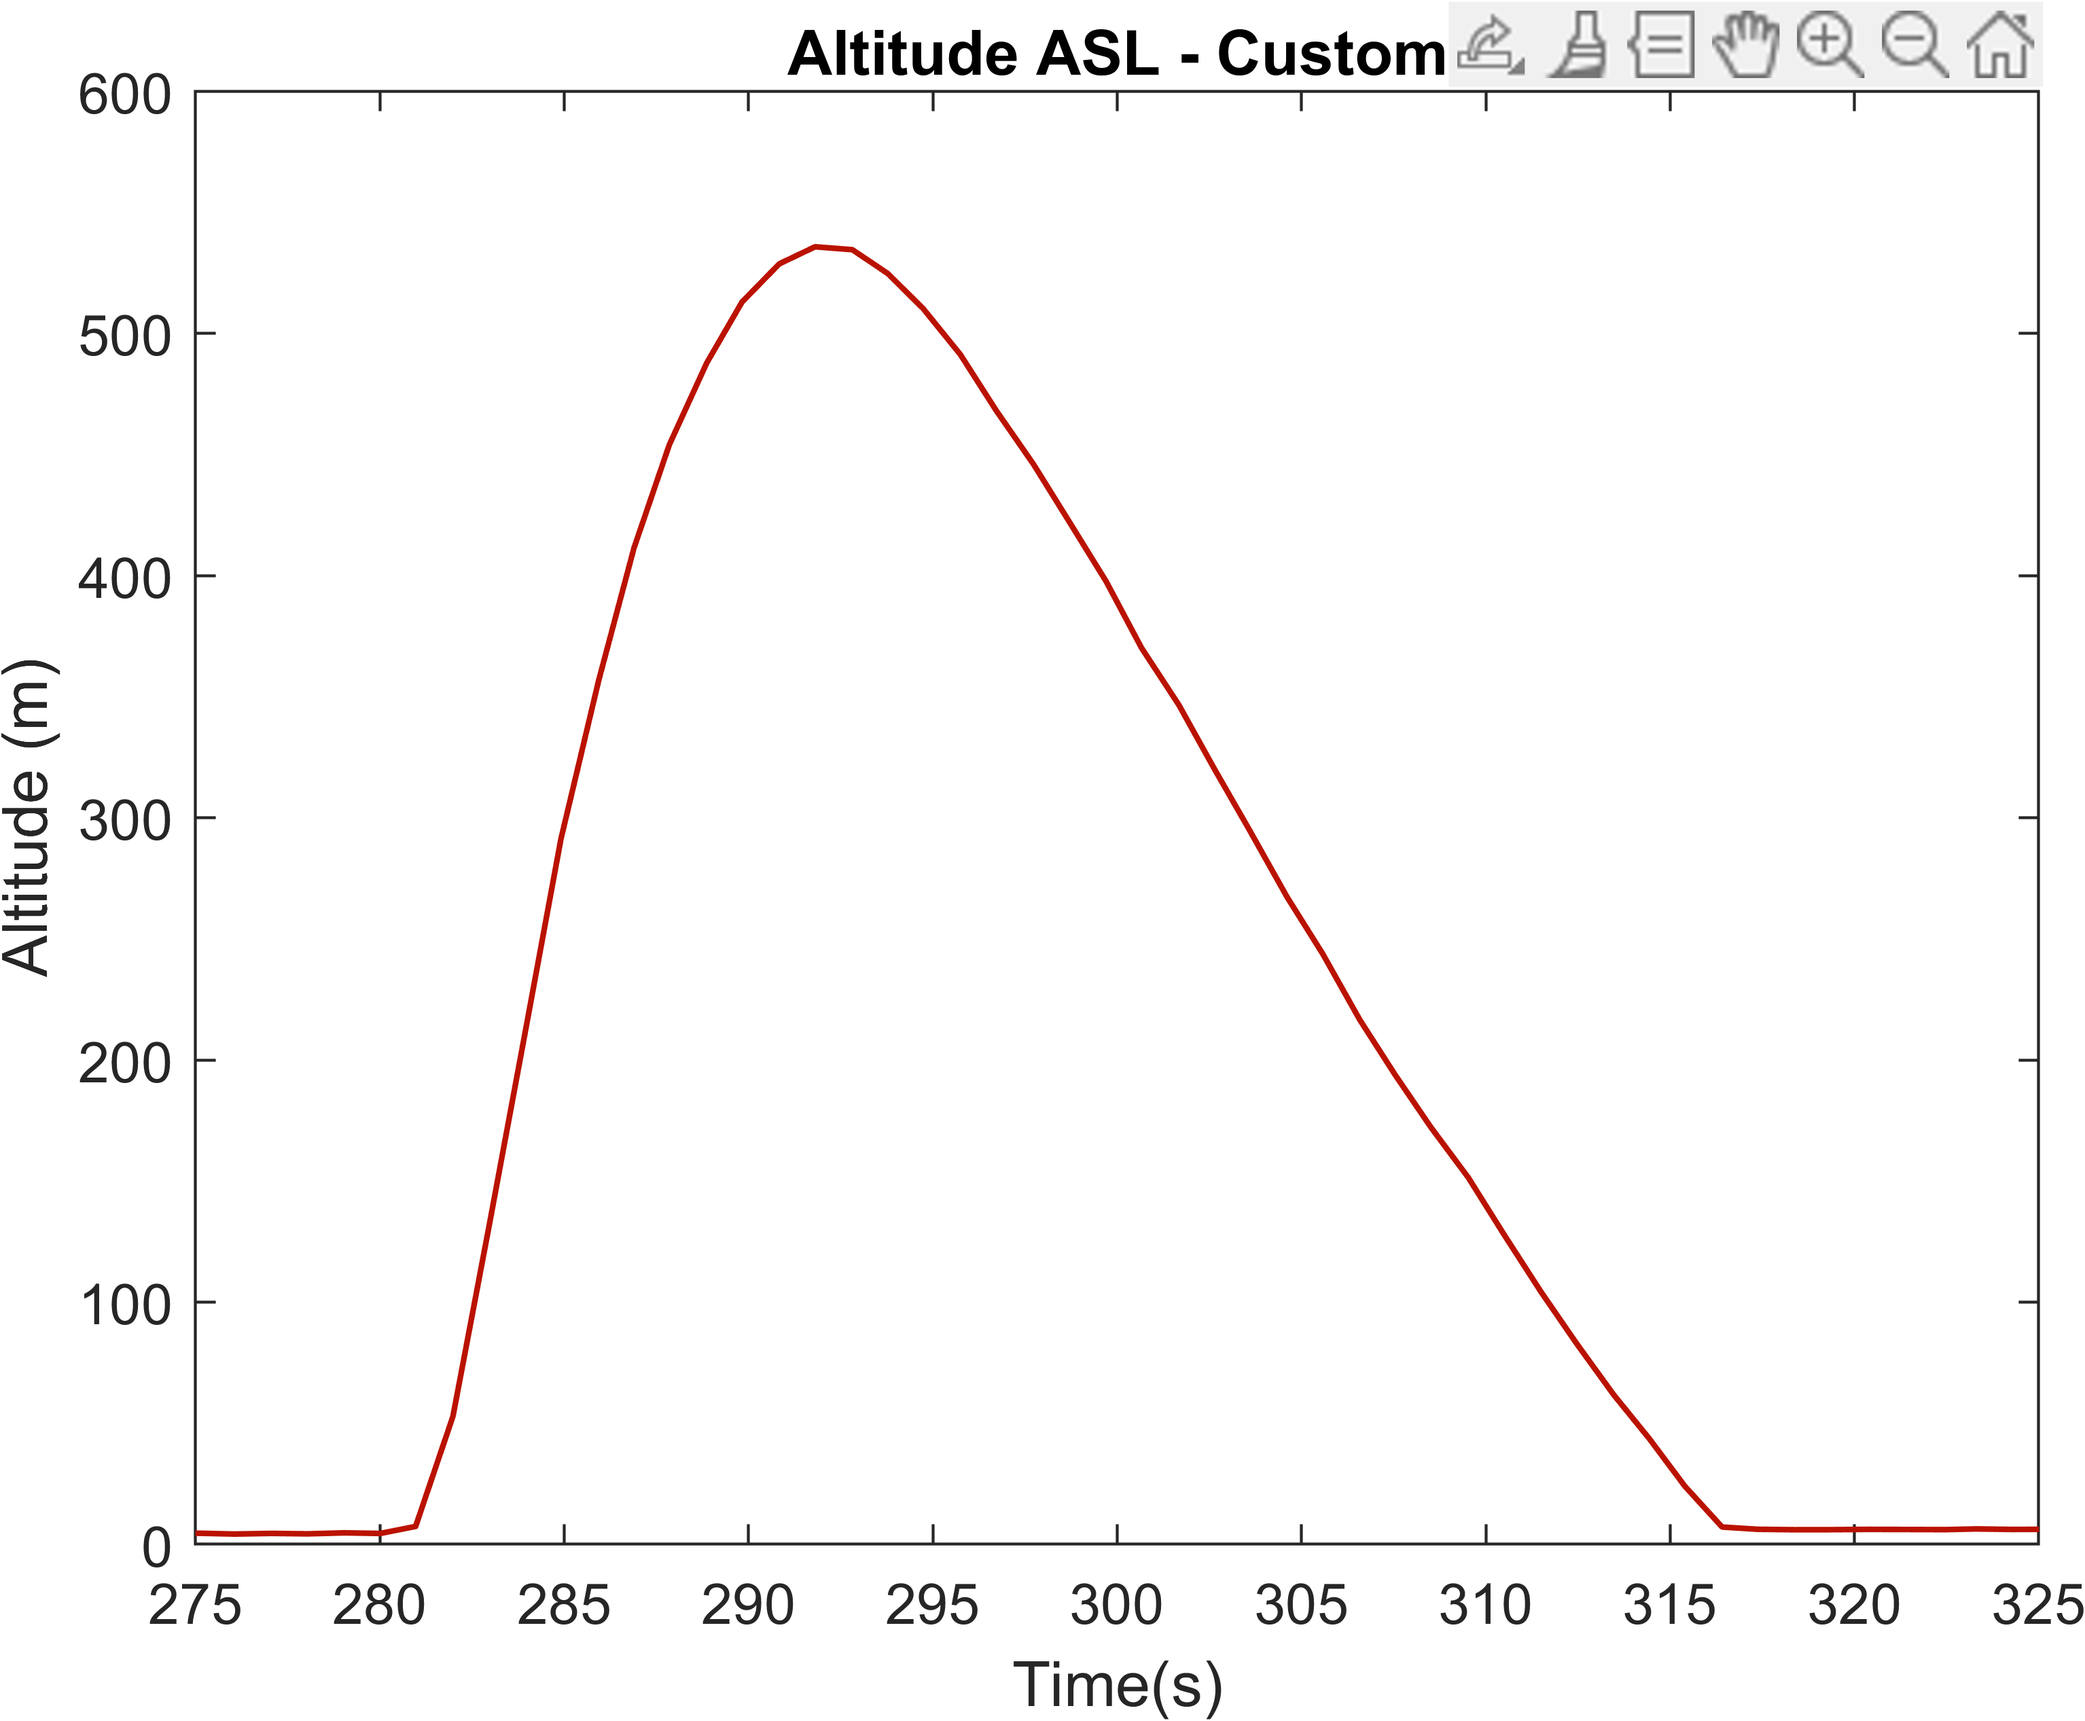
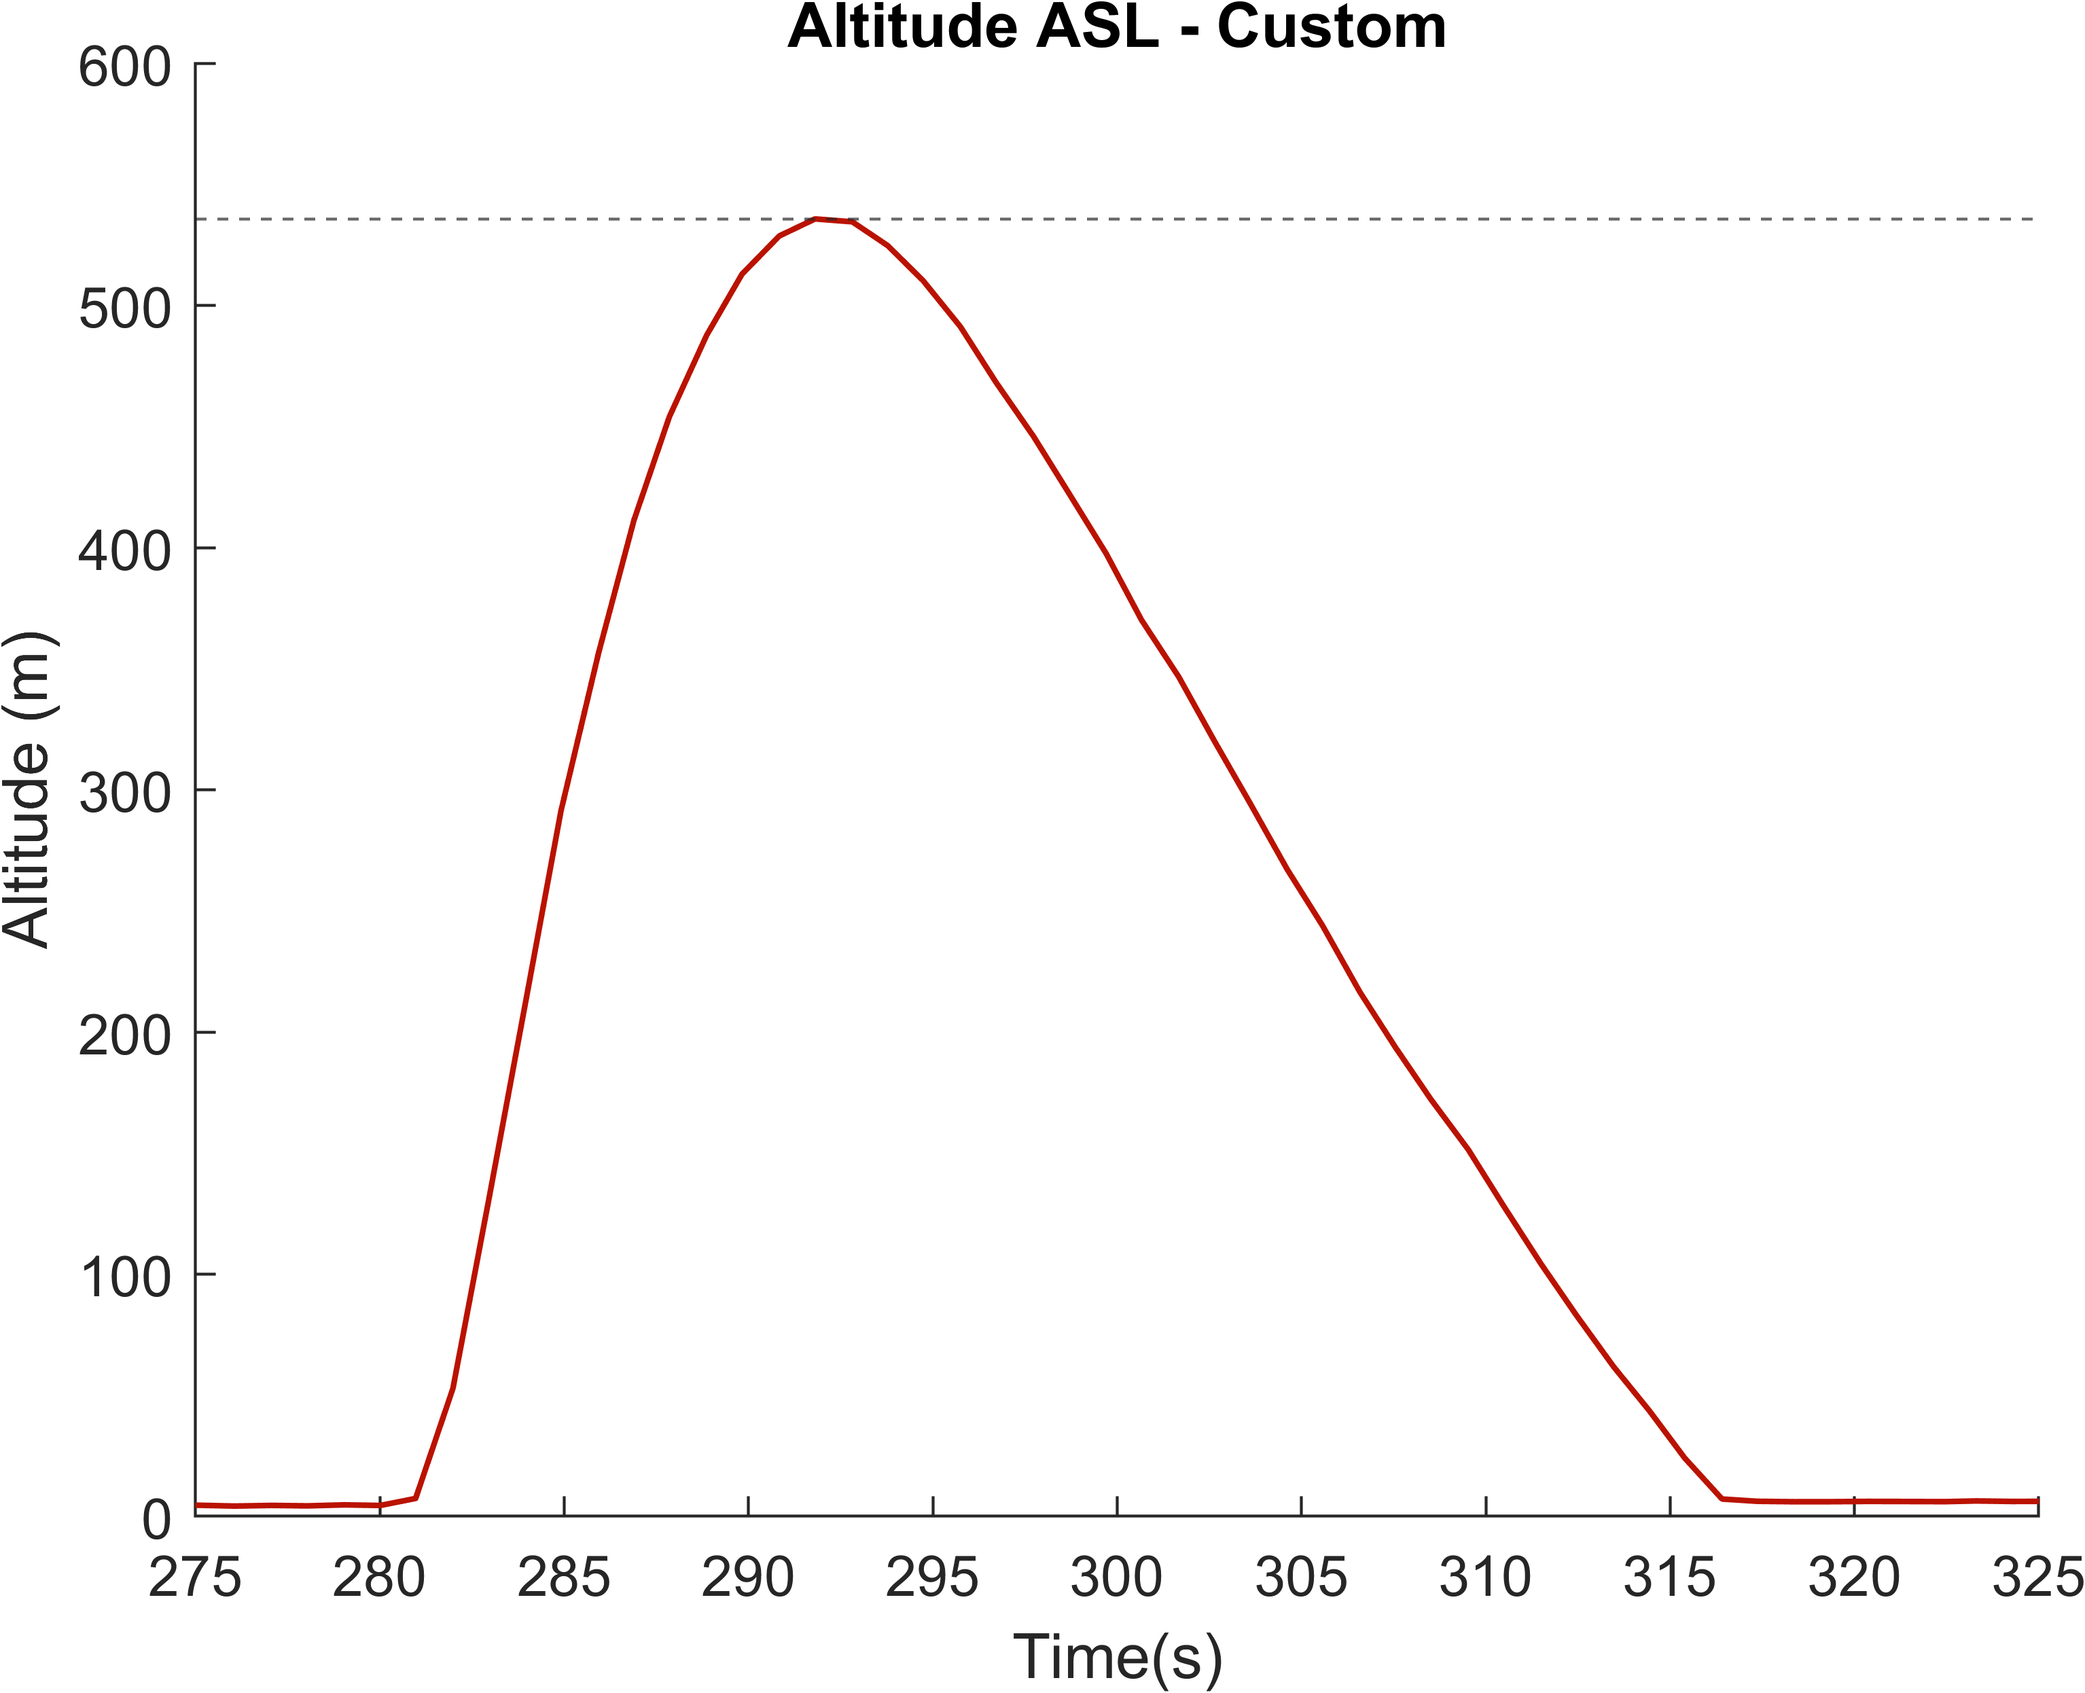
Added a new combined script

diff --git a/astra.m b/astra.m
@@ -34,9 +34,11 @@ t = t/1000;
 % shift t values to recording start
 t = t - min(t);
 
-new_x = -acc_z;
-new_y = acc_y;
-new_z = acc_x;
+period = 5;
+
+new_x = movmean(-acc_z,period);
+new_y = movmean(acc_y,period);
+new_z = movmean(acc_x,period);
 
 figure
 hold on
@@ -112,7 +114,10 @@ if inp == true
     end
     
     figure
+    hold on
     plot(t_filtered, height, 'LineWidth', lw, 'Color', col2)
+    yline(max(height),'--')
+    hold off
     title('Altitude ASL - Custom')
     xlabel('Time(s)')
     ylabel('Altitude (m)')
@@ -169,8 +174,9 @@ temp = pnut(:, 4);
 altitude(t==12.35) = 531;
 
 figure
-plot(t, altitude, 'LineWidth', lw, 'Color', col1)
 hold on
+plot(t, altitude, 'LineWidth', lw, 'Color', col1)
+yline(max(altitude), '--')
 % plot(time+0.4,OR_alt, '-.', 'LineWidth', lw, 'Color', col2)
 hold off
 title('Altitude AGL - Pnut')
@@ -216,7 +222,7 @@ xlabel('Time(s)')
 ylabel('Temperature (C)')
 box on
 exportgraphics(gcf, sprintf('%s_temperature_pnut.png', launch), 'Resolution', 600);
-
+%%
 inp = input('Run ASTRA MkII PNut comparison?');
 
 if inp == true
@@ -238,7 +244,7 @@ if inp == true
     figure
     hold on
     plot(t, vel, 'LineWidth', lw, 'Color', col1)
-    plot(t_filtered-280.3, custom_vel, 'LineWidth', lw, 'Color', col2)
+    plot(t_filtered-280.3+0.512, custom_vel, 'LineWidth', lw, 'Color', col2)
     % plot(time+0.4,OR_alt, '-.', 'LineWidth', lw, 'Color', col2)
     hold off
     title('Velocity')
@@ -248,6 +254,36 @@ if inp == true
     xlabel('Time(s)')
     ylabel('Velocity (ms^{-1})')
     exportgraphics(gcf, sprintf('%s_velocity_combined.png', launch), 'Resolution', 600);
+    
+    figure
+    tiledlayout(2,1)
+    nexttile
+    hold on
+    plot(t, altitude, '-.', 'LineWidth', lw, 'Color', col1)
+    plot(t_filtered-280.3, height-6.2, 'LineWidth', lw*0.8, 'Color', col2)
+    % plot(time+0.4,OR_alt, '-.', 'LineWidth', lw, 'Color', col2)
+    hold off
+    title('Altitude AGL')
+    legend('Commercial Avionics (Pnut)', 'Custom Avionics', 'Location', 'best')
+    xlim([0 50])
+    box on
+    xlabel('Time(s)')
+    ylabel('Altitude (m)')
+    
+    nexttile
+    hold on
+    plot(t, vel, '-.', 'LineWidth', lw, 'Color', col1)
+    plot(t_filtered-280.3+0.512, custom_vel,'LineWidth', lw*0.8, 'Color', col2)
+    % plot(time+0.4,OR_alt, '-.', 'LineWidth', lw, 'Color', col2)
+    hold off
+    title('Velocity')
+    box on
+    legend('Commercial Avionics (Pnut)', 'Custom Avionics', 'Location', 'best')
+    xlim([0 50])
+    xlabel('Time(s)')
+    ylabel('Velocity (ms^{-1})')    
+    exportgraphics(gcf, sprintf('%s_all_combined.png', launch), 'Resolution', 600);
+    
     
     
     
